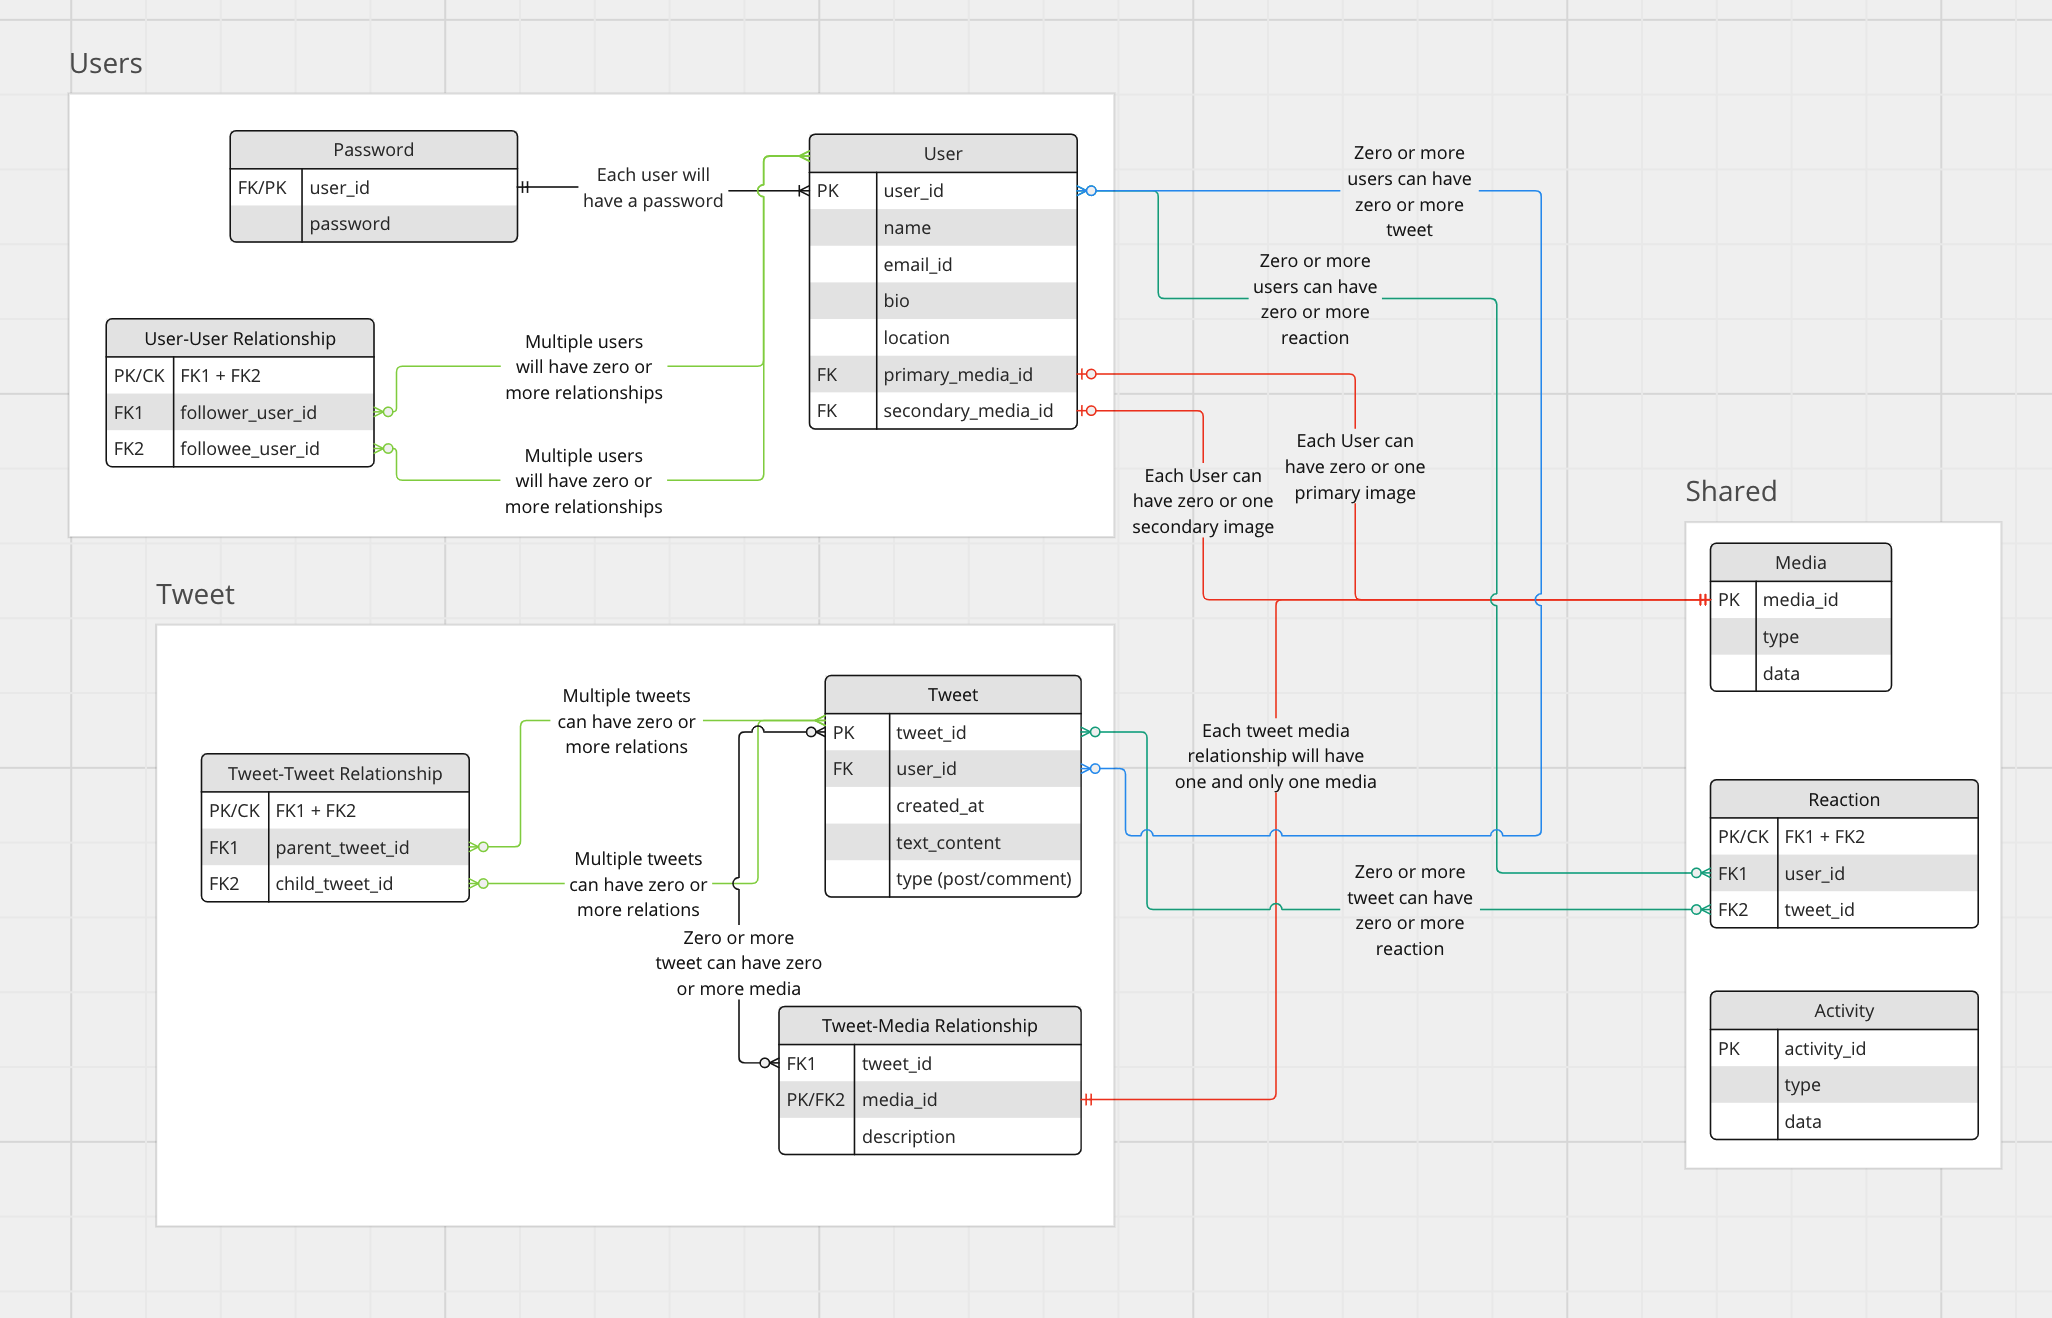
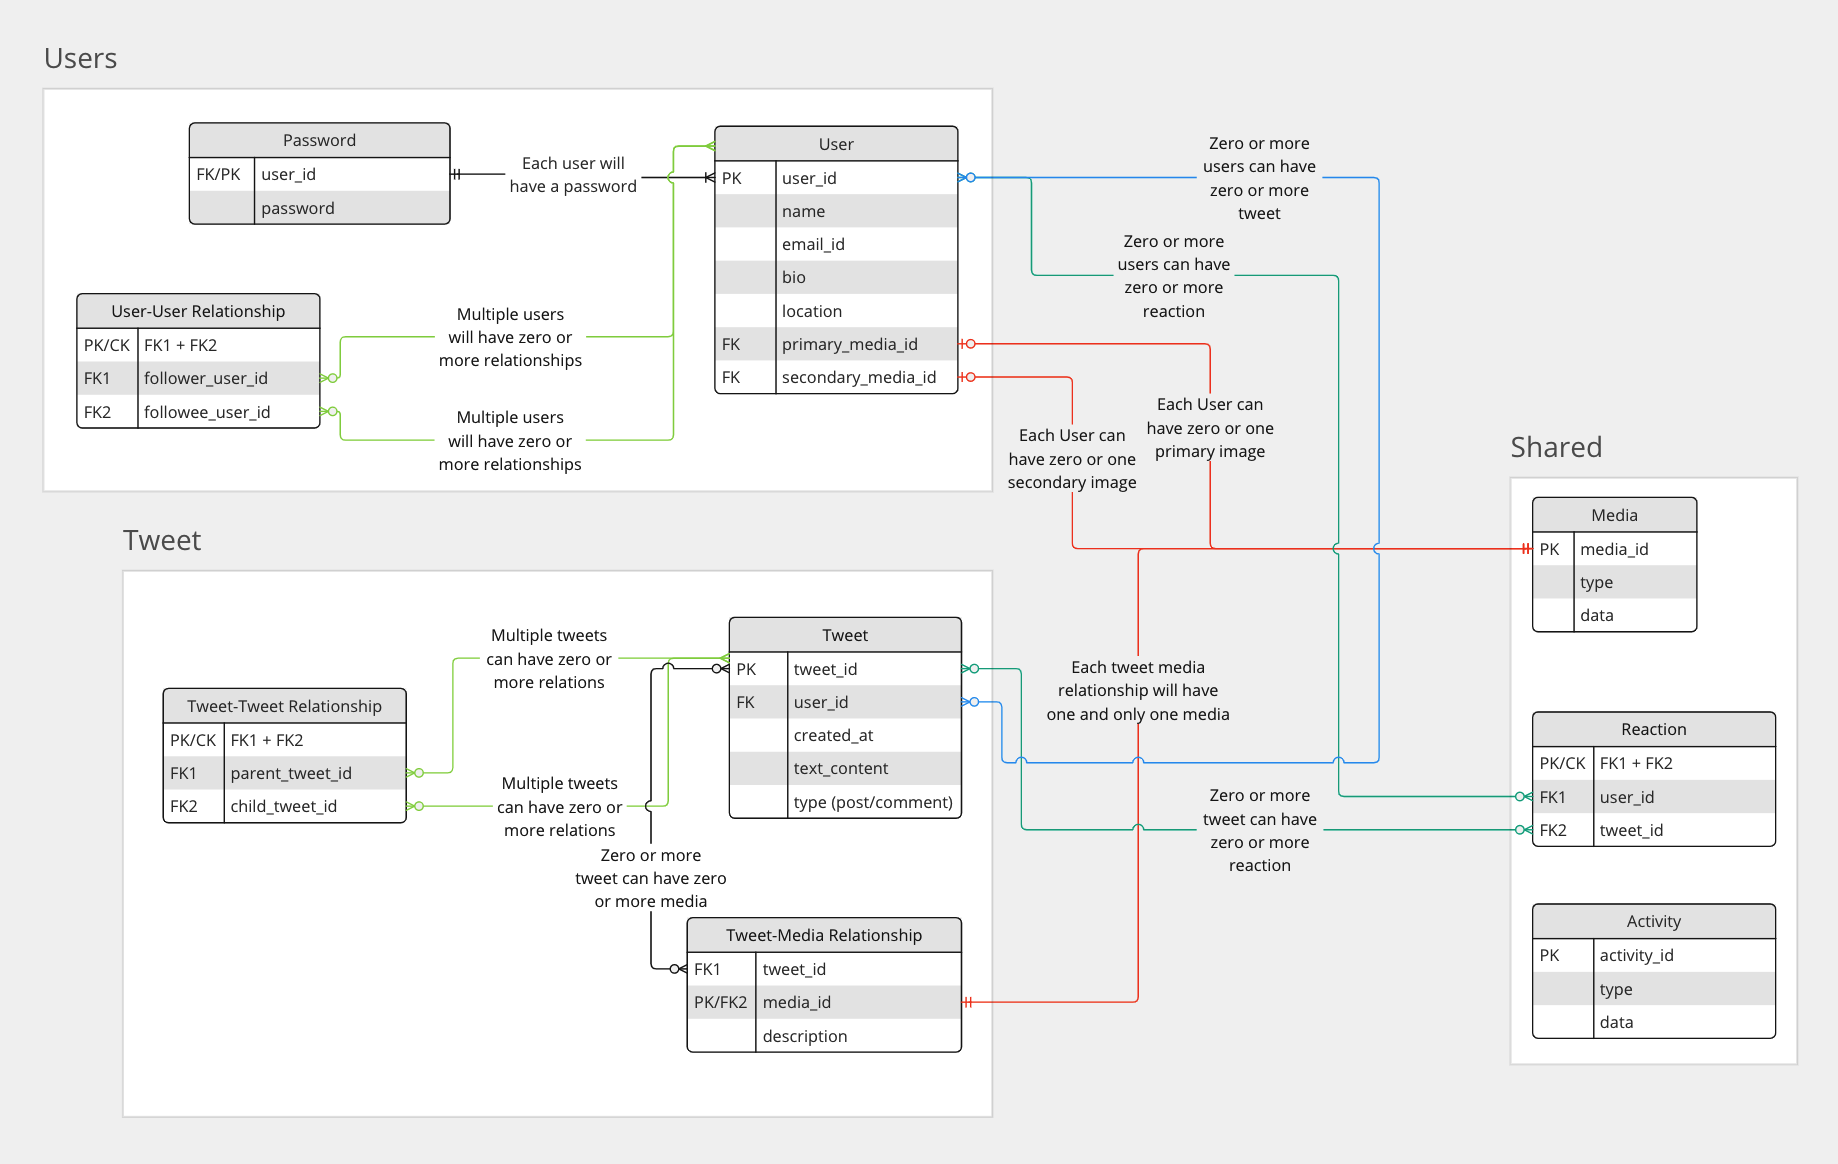
Initial Model/Router setup done

diff --git a/src/models/user.js b/src/models/user.js
@@ -1,0 +1,44 @@
+const mongoose = require("mongoose");
+const isEmail = require("../validators/isEmail");
+
+const userSchema = new mongoose.Schema(
+  {
+    user_id: {
+      trim: true,
+      type: String,
+      unique: true,
+      default: (props) => props.email_id,
+      required: [true, "user_id is required."],
+    },
+    name: {
+      trim: true,
+      type: String,
+      required: [true, "name is required."],
+    },
+    email_id: {
+      trim: true,
+      unique: true,
+      type: String,
+      lowercase: true,
+      required: [true, "Email Id is required."],
+      validate: {
+        validator: isEmail,
+        message: (props) => `${props.value} is not a valid email Id!`,
+      },
+    },
+    bio: { trim: true, type: String, minLength: 1, maxLength: 100 },
+    location: { trim: true, type: String },
+    primary_media_id: {},
+    secondary_media_id: {},
+  },
+  { timestamps: true }
+);
+
+userSchema.pre("save", async function (next) {
+  this.user_id = this.user_id + "12345";
+  next();
+});
+
+const User = mongoose.model("User", userSchema);
+
+module.exports = User;

diff --git a/src/routers/user.js b/src/routers/user.js
@@ -1,0 +1,43 @@
+// Express Import
+const express = require("express");
+
+// Model Imports
+const User = require("../models/user");
+
+const router = new express.Router();
+
+router.get("/user", async (req, res) => {
+  try {
+    let users = await User.find({});
+    console.log(users);
+    res.status(201).send(users);
+  } catch (e) {
+    console.log(e.message);
+    res.status(400).send(e);
+  }
+});
+
+router.post("/user", async (req, res) => {
+  const user = new User(req.body);
+
+  try {
+    await User.create(user);
+    console.log(user);
+    res.status(201).send(user);
+  } catch (e) {
+    console.log(e.message);
+    res.status(400).send(e);
+  }
+});
+
+router.delete("/user", async (req, res) => {
+  try {
+    let deleteRes = await User.deleteMany({});
+    res.status(201).send(deleteRes);
+  } catch (e) {
+    console.log(e.message);
+    res.status(400).send(e);
+  }
+});
+
+module.exports = router;

diff --git a/src/app.js b/src/app.js
@@ -1,7 +1,16 @@
+// Initialize Database connection
 require("./db/mongoose");
+
+// Initialize Routers
+const userRouter = require("./routers/user");
+
+// Express Import
 const express = require("express");
 
 const app = express();
+
+// Middleware for parsing incoming request in JSON
 app.use(express.json());
+app.use(userRouter);
 
 module.exports = app;

diff --git a/src/validators/isEmail.js b/src/validators/isEmail.js
@@ -1,0 +1,12 @@
+const validator = require("validator");
+
+function isEmail(value) {
+  let validationResult = validator.isEmail(value);
+  
+  if (validationResult) console.info(`${value} has passed isEmail validation`);
+  else console.warn(`${value} has not passed isEmail validation`);
+
+  return validationResult;
+}
+
+module.exports = isEmail;

diff --git a/README.md b/README.md
@@ -3,4 +3,4 @@
 ## Description
 
 ## Database ERD
-![Database ERD](<[ERD.png](https://drive.google.com/file/d/1X1DmcSWmhH9oeXy4dnRSiQC3lHmgkWBx/view?usp=sharing)https://drive.google.com/file/d/1X1DmcSWmhH9oeXy4dnRSiQC3lHmgkWBx/view?usp=sharing>)
+![Database ERD](<ERD.png>)
